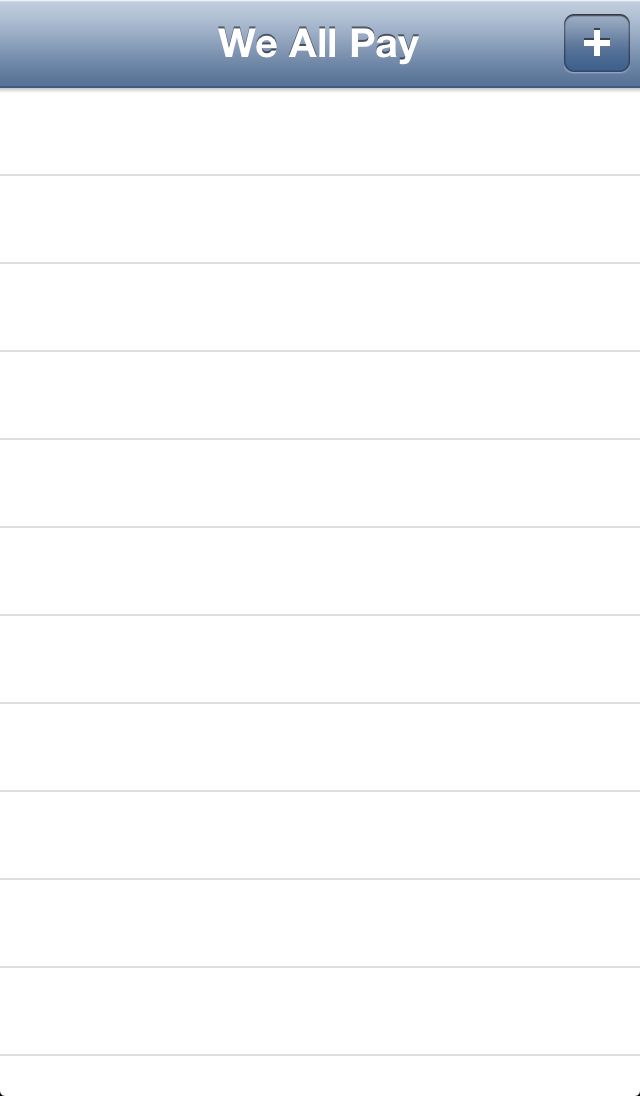
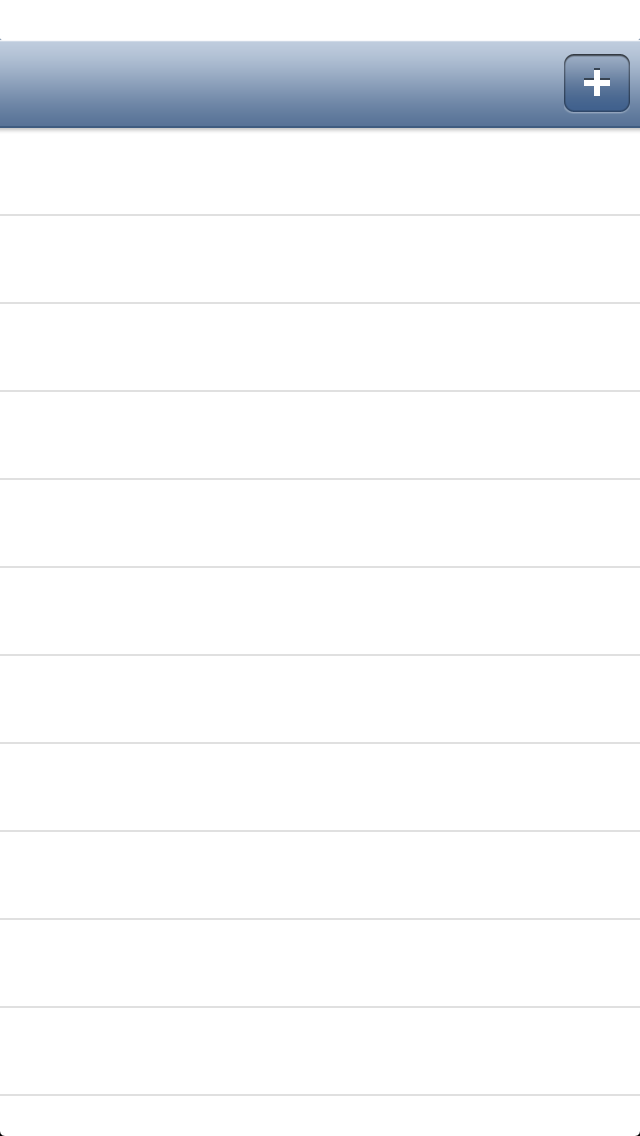
0.6.7 Replaced splash screens with correct size.

Changed region(s): [[0.0, 0.0, 1.0, 0.1241], [0.0, 0.5584, 1.0, 0.5894]]

diff --git a/Going Dutch/ViewControllers/MCPersonViewController.m b/Going Dutch/ViewControllers/MCPersonViewController.m
@@ -175,6 +175,7 @@
         emailSelectionFromAddressBookPickerView = [[UIPickerView alloc] init];
         [emailSelectionFromAddressBookPickerView setDelegate:self];
         [emailSelectionFromAddressBookPickerView setDataSource:self];
+        [emailSelectionFromAddressBookPickerView setShowsSelectionIndicator:YES];
         [emailField setInputView:emailSelectionFromAddressBookPickerView];
         [emailField setInputAccessoryView:inputAccessoryPickerView];
         

diff --git a/Going Dutch/ViewControllers/MCPaymentViewController.m b/Going Dutch/ViewControllers/MCPaymentViewController.m
@@ -268,6 +268,7 @@
     personPickerView = [[UIPickerView alloc] init];
     [personPickerView setDelegate:self];
     [personPickerView setDataSource:self];
+    [personPickerView setShowsSelectionIndicator:YES];
     [payerView setInputView:personPickerView];
     [payerView setInputAccessoryView:inputAccessoryPickerView];
     
